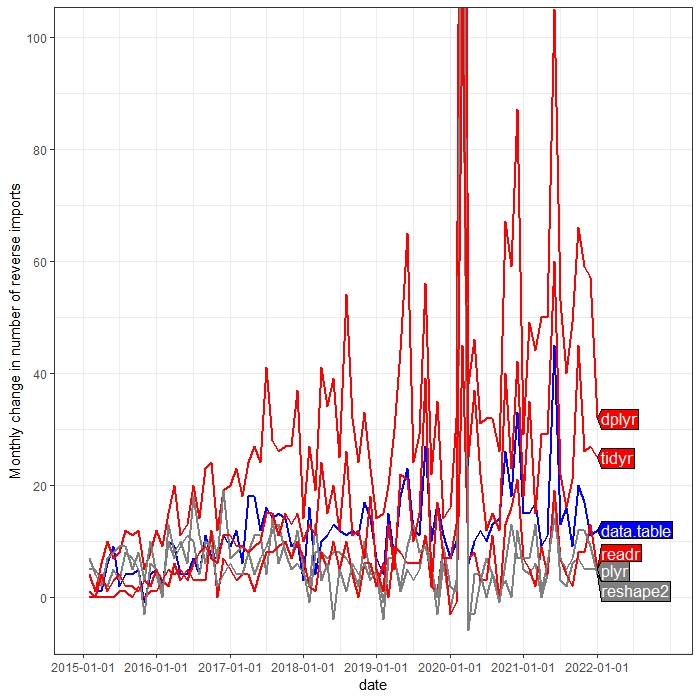
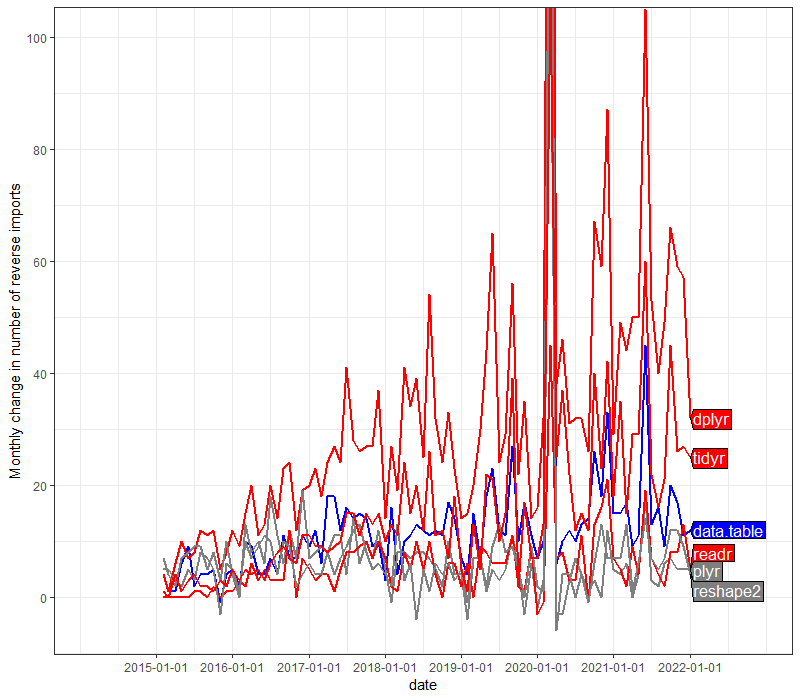
left polygons too

Changed region(s): [[0.12, 0.0, 0.96, 0.9], [0.0, 0.0, 0.9, 0.99], [0.99, 0.03, 1.0, 0.93]]

diff --git a/_posts/2022-05-13-rev-imp-history.md b/_posts/2022-05-13-rev-imp-history.md
@@ -245,6 +245,7 @@ Finally we can plug these count data into a ggplot,
 
 ```r
 library(ggplot2)
+expand.days <- 11*30
 gg <- ggplot()+
   theme_bw()+
   scale_color_manual(values=c(
@@ -257,8 +258,8 @@ gg <- ggplot()+
   scale_x_date(
     breaks=seq(min(date.vec), max(date.vec), by="year"),
     limits=as.IDate(c(
-      min(date.vec),
-      max(date.vec)+11*30 # days
+      min(date.vec)-expand.days,
+      max(date.vec)+expand.days
     )))
 gg.imports <- gg+
   scale_y_log10()+
@@ -266,7 +267,9 @@ gg.imports <- gg+
     date, n.rev.imports, color=Package),
     size=1,
     data=rev.imp.counts)
-directlabels::direct.label(gg.imports, "right.polygons")
+directlabels::direct.label(
+  gg.imports,
+  directlabels::dl.combine("left.polygons", "right.polygons"))
 ```
 
 ![plot of chunk unnamed-chunk-6](/assets/img/2022-05-13-rev-imp-historyunnamed-chunk-6-1.png)
